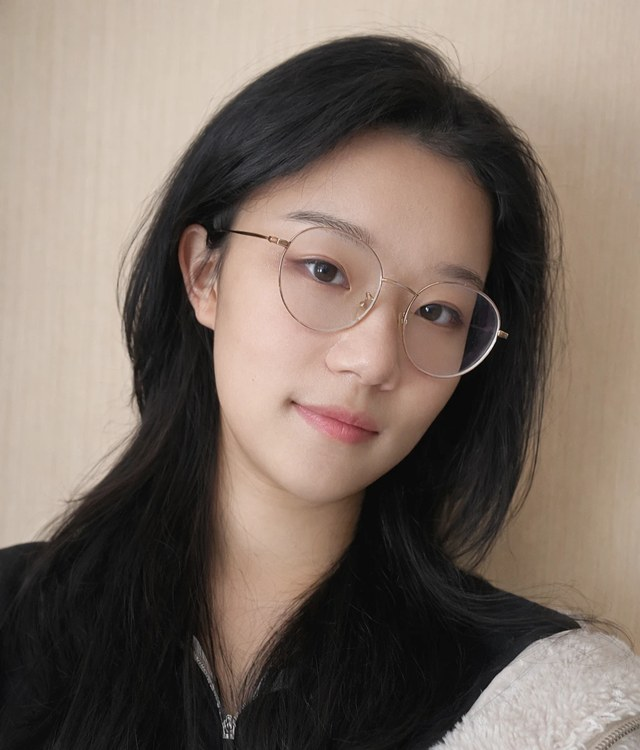
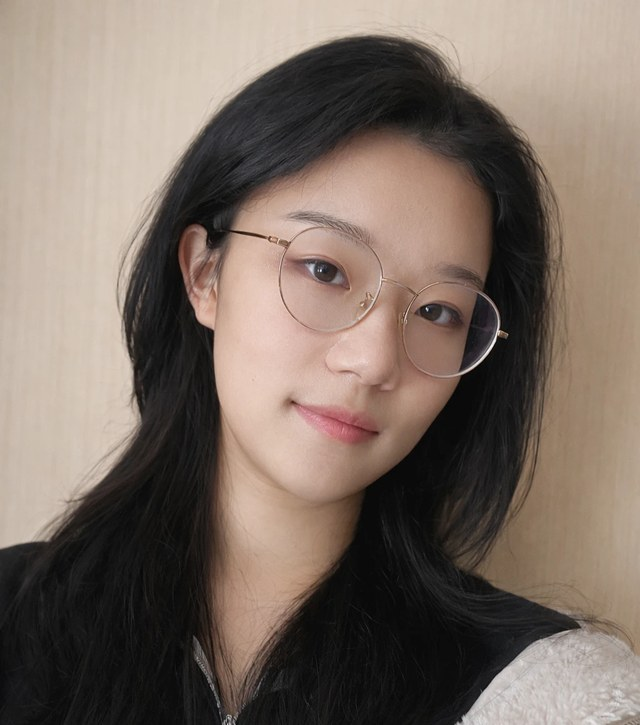
Move photo bubbles to cover the jacket corner
- Location tag top-left, status card bottom-right
- Trim the portrait bottom slightly so the status card hides the white jacket

Claude-Session: https://claude.ai/code/session_011X7ZMmCn8Q6Eq1eT5cP91Y

diff --git a/src/components/sections/About.tsx b/src/components/sections/About.tsx
@@ -63,7 +63,7 @@ const StyledPic = styled.div`
 
   .location {
     top: 18px;
-    right: -22px;
+    left: -22px;
     padding: 8px 14px;
     border-radius: 12px;
     background: #3d3d3a;
@@ -74,8 +74,8 @@ const StyledPic = styled.div`
   }
 
   .status {
-    left: -30px;
-    bottom: -16px;
+    right: -30px;
+    bottom: -6px;
     padding: 11px 16px 12px;
     border: 1px solid rgba(255, 255, 255, 0.75);
     border-radius: 16px;
@@ -104,10 +104,10 @@ const StyledPic = styled.div`
 
   @media (max-width: 480px) {
     .location {
-      right: -12px;
+      left: -12px;
     }
     .status {
-      left: -16px;
+      right: -16px;
     }
   }
 
@@ -139,7 +139,7 @@ const StyledPic = styled.div`
       position: relative;
       width: 100%;
       height: auto;
-      aspect-ratio: 640 / 750;
+      aspect-ratio: 640 / 725;
       object-fit: cover;
       border-radius: var(--border-radius);
       transition: var(--transition);
@@ -185,7 +185,7 @@ const About = () => {
 
         <StyledPic>
           <div className="wrapper">
-            <img className="img" src={asset(about.photo)} width={640} height={750} alt={about.photoAlt} />
+            <img className="img" src={asset(about.photo)} width={640} height={725} alt={about.photoAlt} />
           </div>
           <span className="bubble location">{about.location}</span>
           <span className="bubble status">

diff --git a/src/content/about.ts b/src/content/about.ts
@@ -7,7 +7,7 @@ export const about = {
   ],
   // TODO: 换成你真正常用的技能
   skills: ['TypeScript', 'Python', 'React', 'Node.js', 'Kubernetes', 'PostgreSQL'],
-  // 照片放在 public/images/ 下，竖版 640×750；换照片时记得改文件名，避免浏览器缓存旧图
+  // 照片放在 public/images/ 下，竖版 640×725；换照片时记得改文件名，避免浏览器缓存旧图
   photo: 'images/me-portrait.jpg',
   photoAlt: 'Corrine Xiang',
   // 照片旁边的两个小气泡
